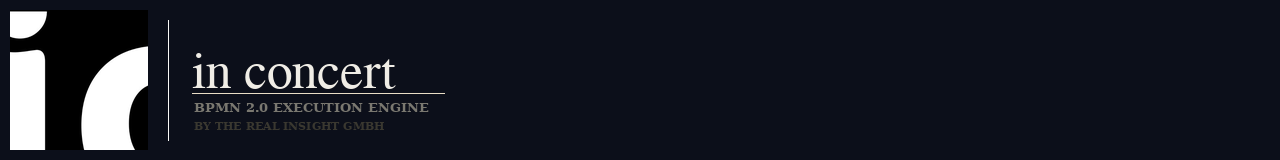
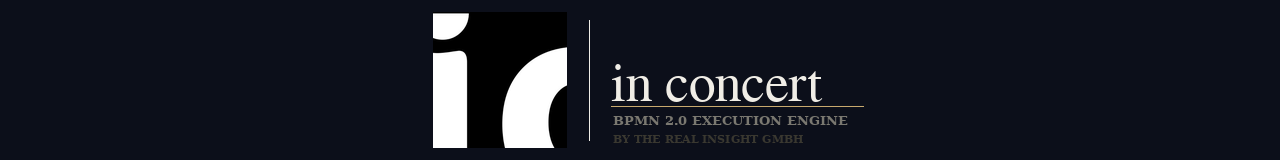
Header.

Changed region(s): [[0.0, 0.0625, 0.6875, 0.9375]]

diff --git a/README.md b/README.md
@@ -1,6 +1,7 @@
 <div align="center">
-
+<div style="background-color: #000000; width: 100%; margin-bottom: 30px;" align="center">
 <img src="./docs/banner.png" alt="in-concert logo" width="800" />
+</div>
 
 **A production-grade BPMN 2.0 execution engine for Node.js**
 
@@ -41,7 +42,8 @@ Built for teams who want **deterministic, inspectable process execution** withou
 
 | | |
 |---|---|
-| 🔁 **Event-sourced instances** | Every token move is an event. Replay, audit, and debug any instance from its stream. |
+| 🔁 **Event-sour<div align="center">
+ced instances** | Every token move is an event. Replay, audit, and debug any instance from its stream. |
 | ⚡ **Optimistic concurrency** | Safe parallel execution without pessimistic locking. |
 | 📬 **Push-style callbacks** | Human tasks, service tasks, and gateway decisions delivered via WebSocket — no polling. |
 | 🔌 **Two integration modes** | **REST mode** (HTTP + WebSocket) for microservices, **local mode** (direct MongoDB) for tests and embedding. |
